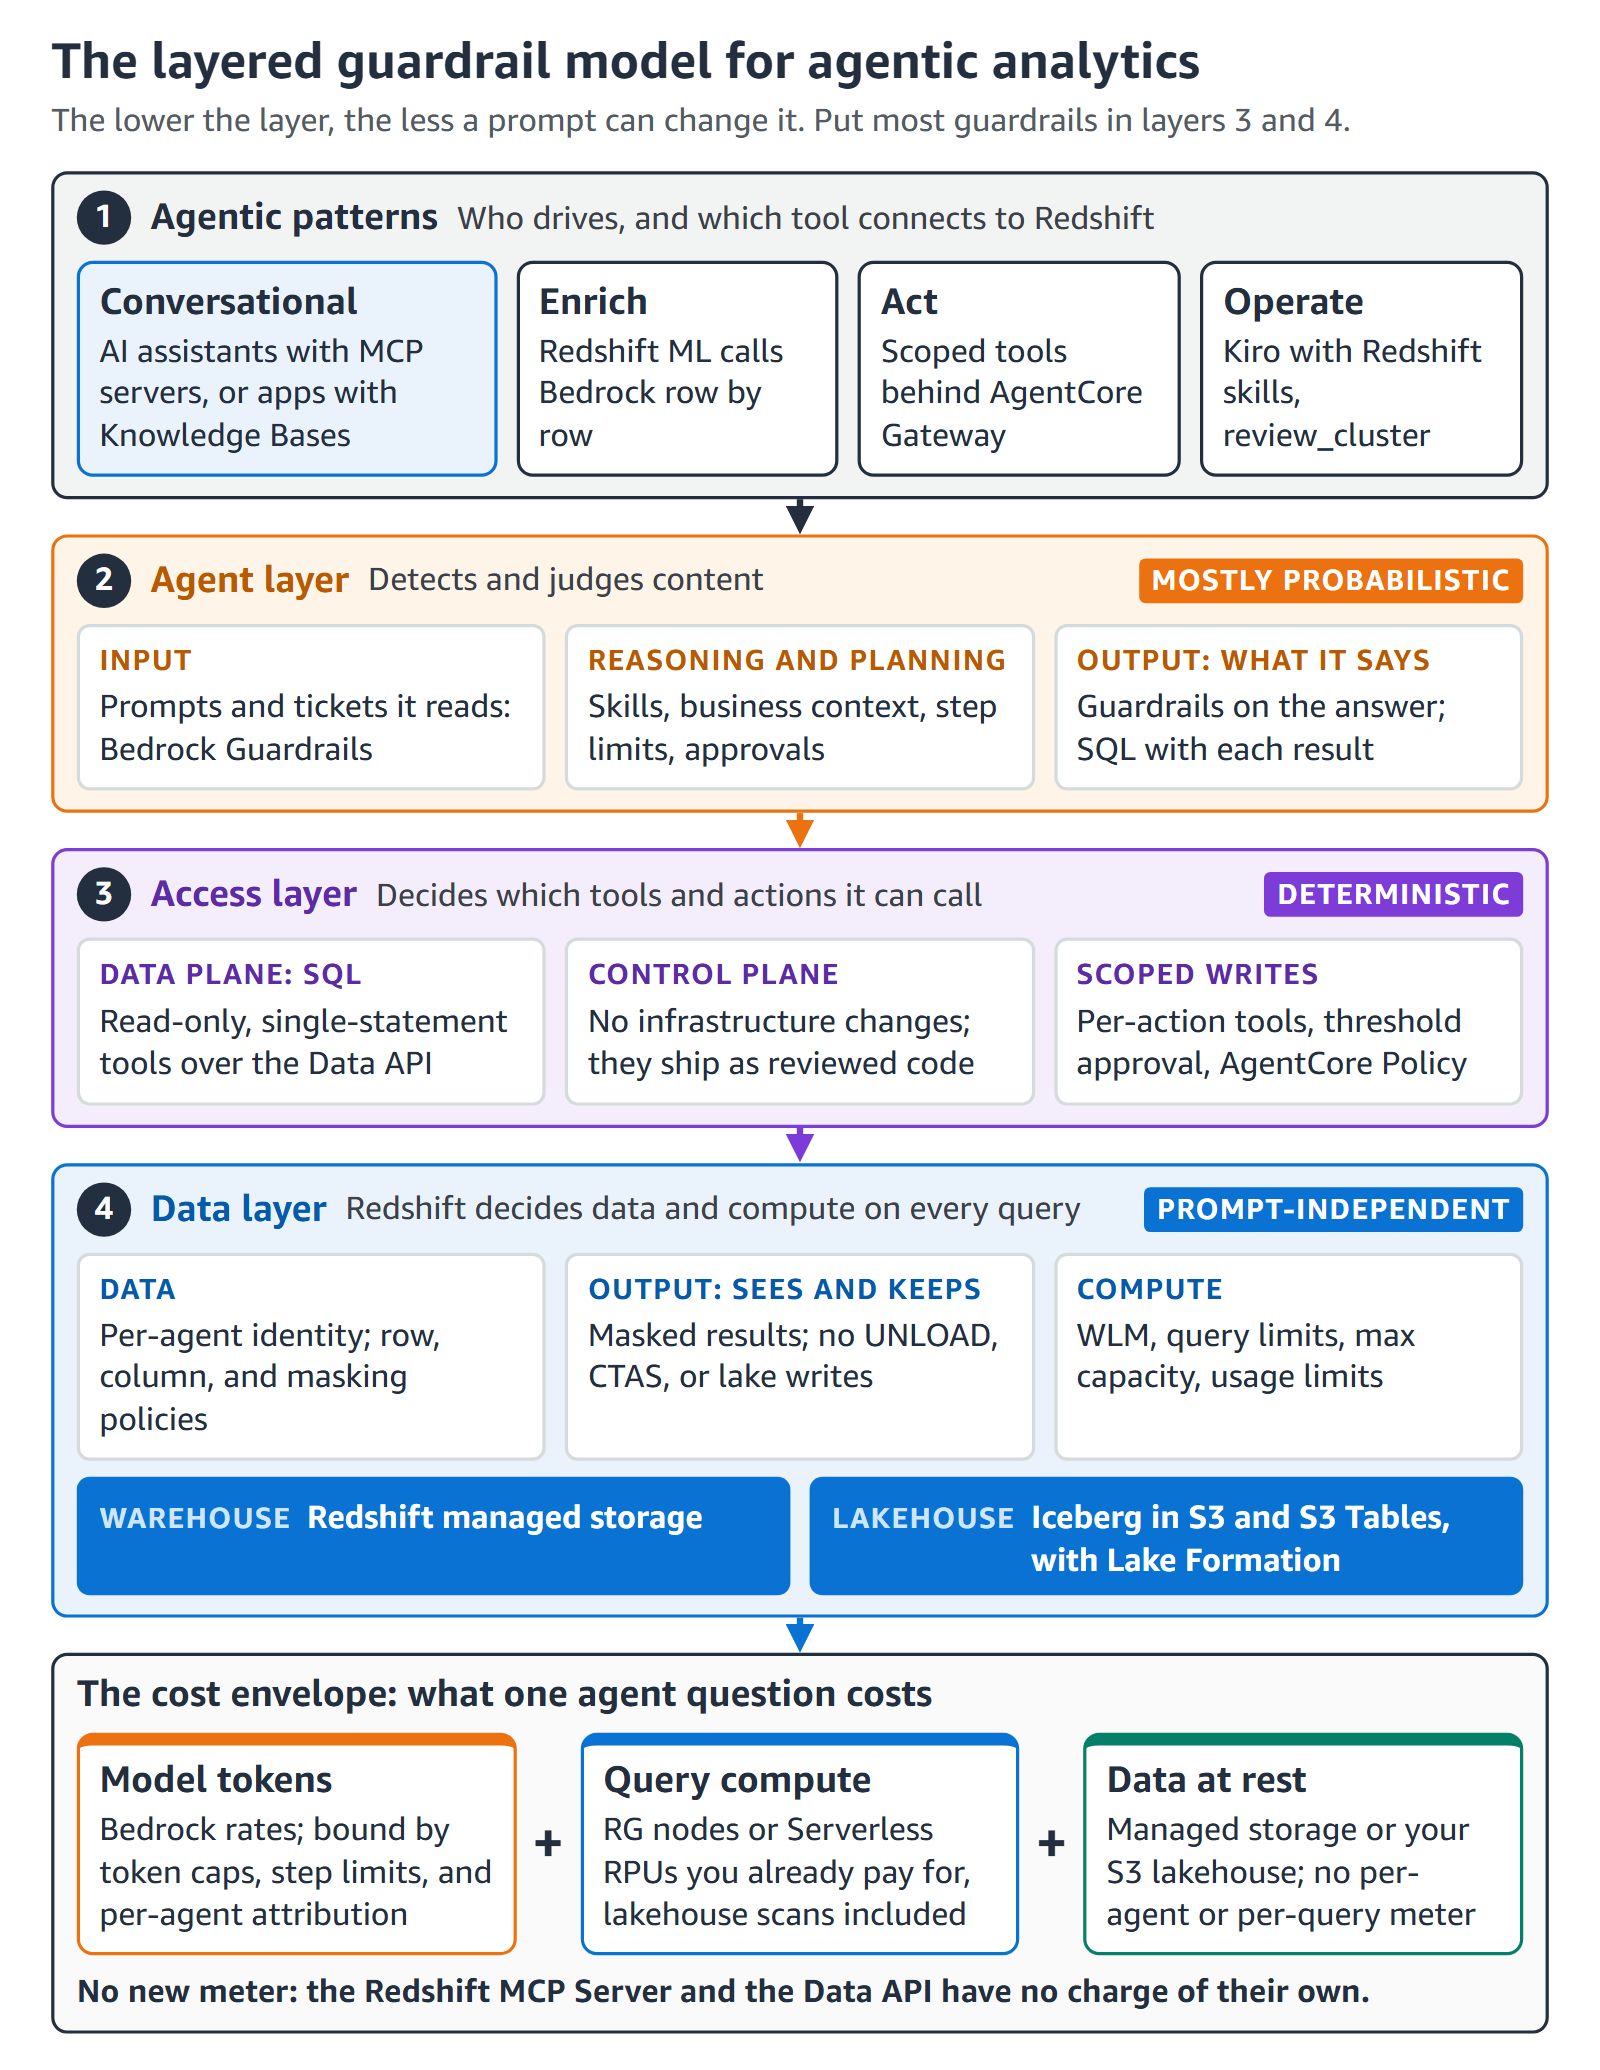
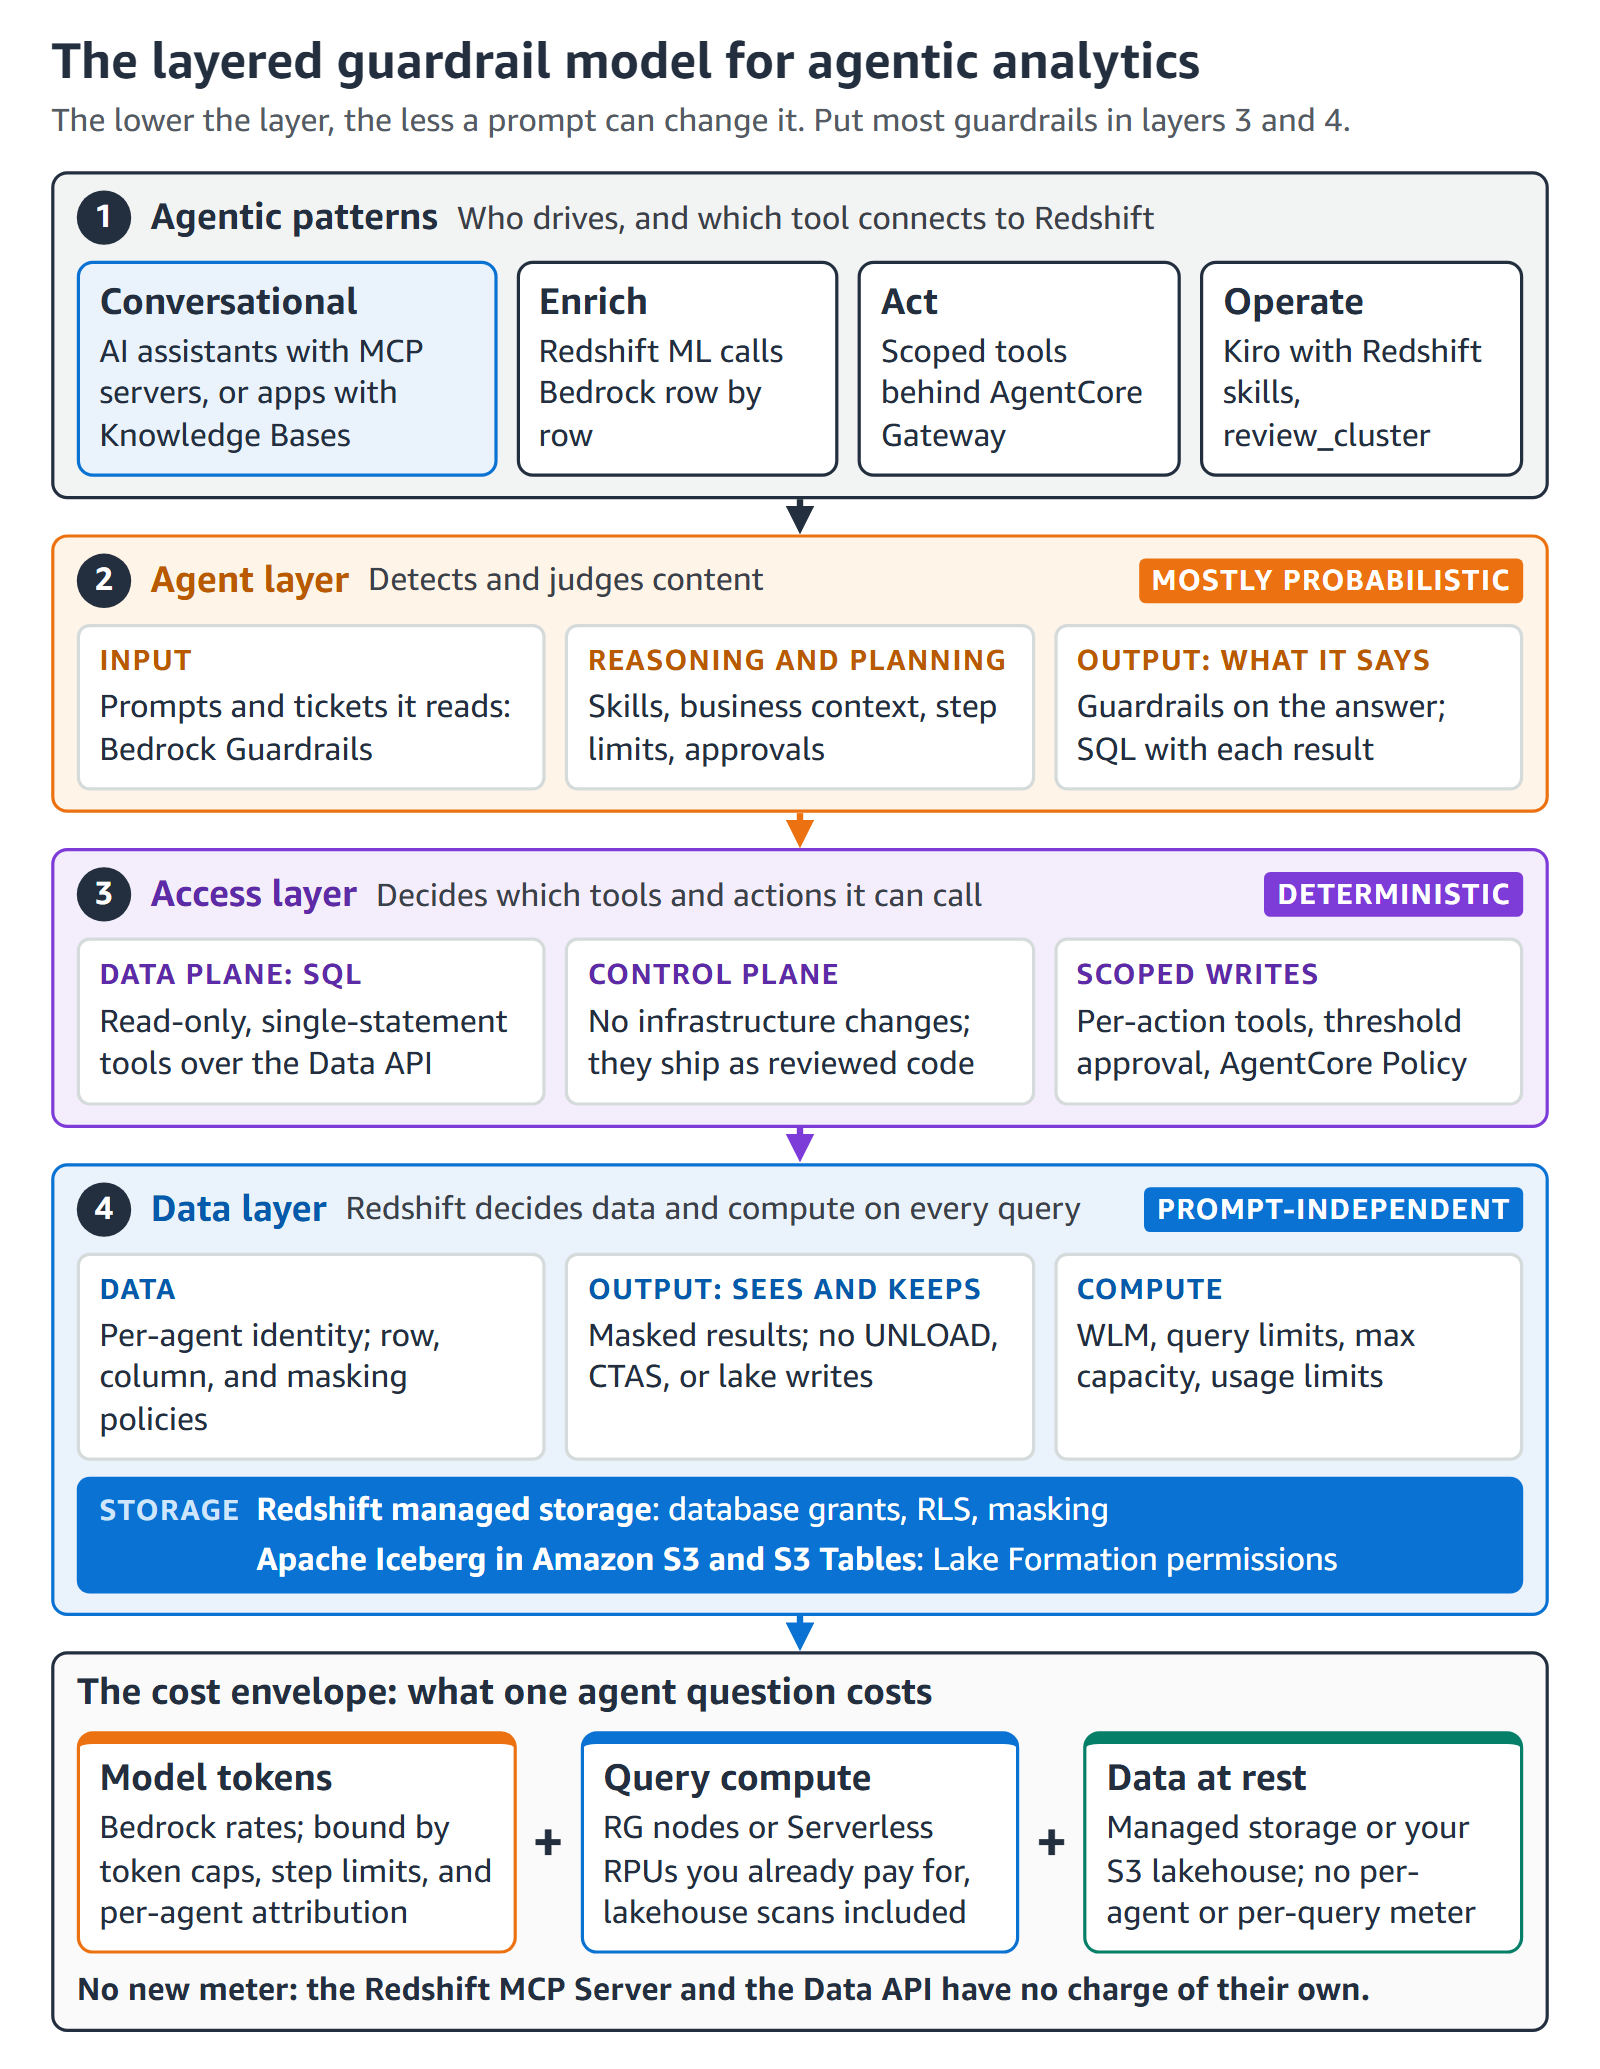
Update Figure 1: combine warehouse and lakehouse into one Storage box

diff --git a/README.md b/README.md
@@ -7,7 +7,7 @@ This repository holds the IAM policies, SQL, AWS CLI commands and Python files t
 
 ## The layered guardrail model
 
-![The layered guardrail model for agentic analytics on Amazon Redshift, read top to bottom in four numbered rows. 1, agentic patterns: conversational analytics through AI assistants with MCP servers or apps with Knowledge Bases, Enrich with Redshift ML, Act with scoped tools behind AgentCore Gateway, and Operate with Kiro and Redshift skills. 2, the agent layer, mostly probabilistic, screens prompts and tickets, guides reasoning, and checks the answer. 3, the access layer, deterministic, keeps SQL tools read-only, blocks infrastructure changes, and scopes writes. 4, the data layer, prompt-independent, applies per-agent identity, row, column, and masking policies, output limits, and compute limits. Below, the cost envelope adds model tokens, query compute, and data at rest, with no new meter.](images/fig1-layered-model.png)
+![The layered guardrail model for agentic analytics on Amazon Redshift, read top to bottom in four numbered rows. 1, agentic patterns: conversational analytics through AI assistants with MCP servers or apps with Knowledge Bases, Enrich with Redshift ML, Act with scoped tools behind AgentCore Gateway, and Operate with Kiro and Redshift skills. 2, the agent layer, mostly probabilistic, screens prompts and tickets, guides reasoning, and checks the answer. 3, the access layer, deterministic, keeps SQL tools read-only, blocks infrastructure changes, and scopes writes. 4, the data layer, prompt-independent, applies per-agent identity, row, column, and masking policies, output limits, and compute limits. One storage box holds Redshift managed storage, and Apache Iceberg in Amazon S3 and S3 Tables with Lake Formation permissions. Below, the cost envelope adds model tokens, query compute, and data at rest, with no new meter.](images/fig1-layered-model.png)
 
 1. Agent layer: skills, tool allow lists, and approval for consequential or above-threshold writes. It lives in the agent or AI assistant, outside this repository.
 2. Access layer: which tools and APIs the agent can call, and as which identity. [`access-layer/`](access-layer/README.md)
